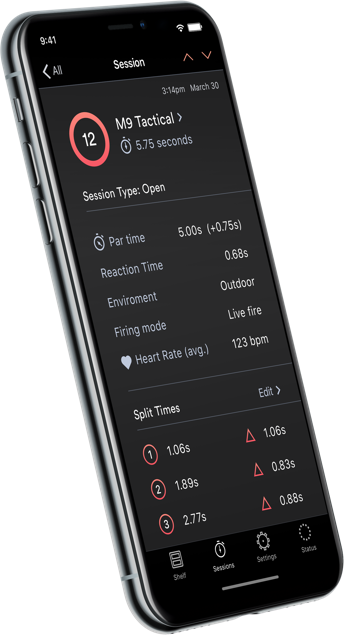
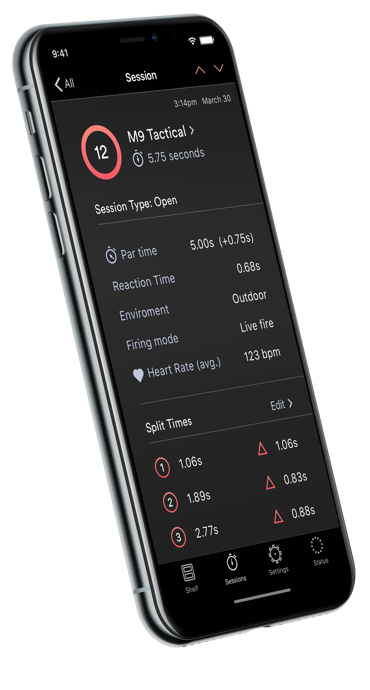
finessed 3 hero blocks

Changed region(s): [[0.0, 0.0, 1.0, 1.0]]

diff --git a/_assets/css/pages/_home.scss b/_assets/css/pages/_home.scss
@@ -154,7 +154,11 @@ h3 {
     position: relative;
     float: left;
     width: 100%;
-    min-height: 300px;
+    min-height: 360px;
+
+    @include breakpoint(medium) {
+      min-height: 400px;
+    }
 
     @include breakpoint(large) {
       width: 50%;
@@ -165,7 +169,11 @@ h3 {
     position: relative;
     float: right;
     width: 100%;
-    min-height: 300px;
+    min-height: 360px;
+
+    @include breakpoint(medium) {
+      min-height: 400px;
+    }
 
     @include breakpoint(large) {
       width: 50%;
@@ -186,7 +194,7 @@ h3 {
     text-align: right;
 
     @include breakpoint(large) {
-      height: 500px;
+      height: 650px;
     }
   }
 
@@ -217,7 +225,7 @@ h3 {
   }
 
   &--image-b {
-    min-height: 500px;
+    min-height: 400px;
 
     @include breakpoint(medium) {
       min-height: 500px;
@@ -277,15 +285,47 @@ h3 {
 .hero-watch-b {
   position: absolute;
   top: 15%;
-  right: 20%;
+  right: 23%;
   
   img {
     width: 200px;
-    height: 300px;
+    height: 259px;
 
     @include breakpoint(medium) {
-      width: 240px;
-      height: 360px;
+      width: 270px;
+      height: 350px;
+    }
+  }
+}
+
+.hero-phone-c {
+  position: absolute;
+  top: -5%;
+  left: 6%;
+
+  img {
+    width: 280px;
+    height: 522px;
+
+    @include breakpoint(medium) {
+      width: 370px;
+      height: 690px;
+    }
+  }
+}
+
+.hero-watch-c {
+  position: absolute;
+  top: 24%;
+  left: 38%;
+  
+  img {
+    width: 200px;
+    height: 259px;
+
+    @include breakpoint(medium) {
+      width: 270px;
+      height: 350px;
     }
   }
 }

diff --git a/index.html b/index.html
@@ -32,23 +32,17 @@ layout: page
         </div>
         <div class="hero-feature__left">
             <h3>Practice in more places</h3>
-            <h2>Choose either Live&nbsp;fire or&nbsp;Dry&nbsp;fire</h2>
+            <h2>Choose Live&nbsp;fire or&nbsp;Dry&nbsp;fire</h2>
         </div>
     </div>
     <div class="hero-feature hero-feature--row-3">
         <div class="hero-feature__left hero-feature--image-c">
+            <div class="hero-phone-c">{% img hero-phone-c@2x.png %}</div>
+            <div class="hero-watch-c">{% img hero-watch-c@2x.png %}</div>
         </div>
         <div class="hero-feature__right">
-            <h3>Room for your collection</h3>
-            <h2>An organized gun&nbsp;wall for&nbsp;your collection</h2>
-        </div>
-    </div>
-    <div class="hero-feature hero-feature--row-4">
-        <div class="hero-feature__right hero-feature--image-d">
-        </div>
-        <div class="hero-feature__left">
-            <h3>Motion + Audio detection</h3>
-            <h2>Accurate shot and split&nbsp;time detection</h2>
+            <h3>The gun wall</h3>
+            <h2>Catalog and view your sessions</h2>
         </div>
     </div>
 </div>
